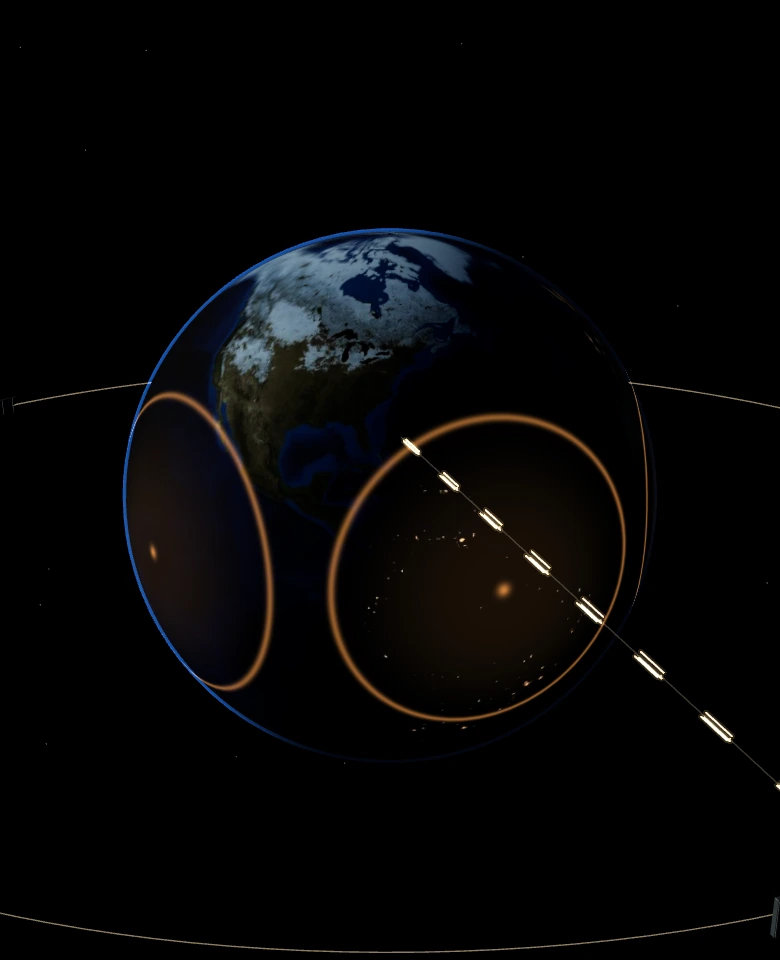
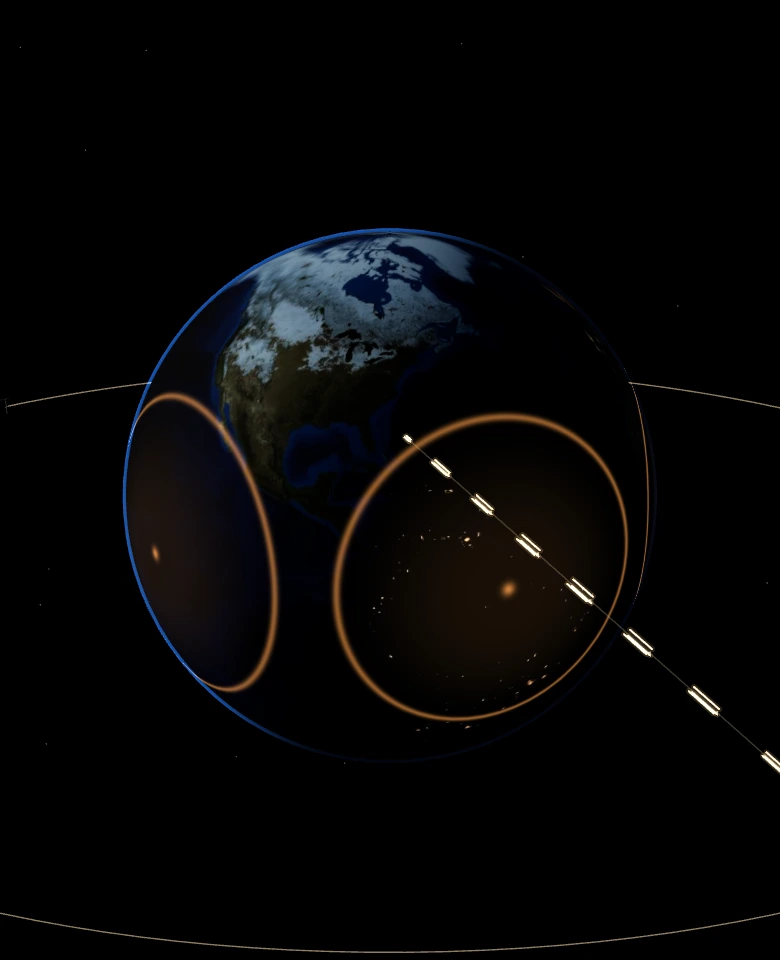
Plume over open ocean; recapture story stills; canvas keyboard help
- plume-illustration.js: turn the reused NASA Earth (y -1.8 instead of 0.8)
  so the generic plume rises over the Norwegian Sea instead of the Gulf of
  Alaska / Pacific Northwest coast. Framing and lighting unchanged.
- Recapture the browser stills (plume, ring) with render-story-stills.mjs
  against the current build and bump their ?v keys to ux2. The Blender
  hardware stills were re-rendered by the same run but restored to the
  committed bytes: their inputs (GLBs, Blender scripts) are unchanged, and
  the manifest records the committed hashes. story-freshness passes.
- Canvas aria-label names the keyboard shortcuts (1-6, L/D/H, arrows).

diff --git a/index.html b/index.html
@@ -47,7 +47,7 @@
   </header>
   <main id="main">
     <section class="hero" id="top" aria-labelledby="hero-title">
-      <div class="hero-img"><picture><source media="(max-width: 760px)" srcset="look/ring-phone.webp?v=astra1" width="780" height="960"><img src="look/ring.webp?v=astra1" width="1600" height="1000" alt="An illuminated Earth surrounded by a schematic orbital ring and enlarged representative satellites." fetchpriority="high" decoding="async"></picture><video id="ring-loop" hidden muted loop playsinline preload="none" aria-label="Schematic GEO day loop: the patches stay fixed to the rotating Earth"><source src="look/ring-loop.mp4" type="video/mp4"></video></div>
+      <div class="hero-img"><picture><source media="(max-width: 760px)" srcset="look/ring-phone.webp?v=ux2" width="780" height="960"><img src="look/ring.webp?v=ux2" width="1600" height="1000" alt="An illuminated Earth surrounded by a schematic orbital ring and enlarged representative satellites." fetchpriority="high" decoding="async"></picture><video id="ring-loop" hidden muted loop playsinline preload="none" aria-label="Schematic GEO day loop: the patches stay fixed to the rotating Earth"><source src="look/ring-loop.mp4" type="video/mp4"></video></div>
       <div class="hero-in">
         <p class="eyebrow">Light · Data · Heat <span> / Orbit to pixel</span></p>
         <h1 id="hero-title">The Guardian Ring</h1>
@@ -174,7 +174,7 @@
       <section class="level-study" id="photon" aria-labelledby="photon-title">
         <header class="study-heading"><p class="eyebrow">06 / The photon</p><h2 id="photon-title">Start with<br>molecular light.</h2><p class="section-lede">Hot gases emit infrared radiation in characteristic molecular bands. A civil combustion study supplies the band examples here.</p></header>
         <figure class="study-figure">
-          <picture><source media="(max-width: 700px)" srcset="look/plume-phone.webp?v=astra1" width="780" height="960"><img src="look/plume.webp?v=astra1" width="1600" height="1000" alt="A rising false-color plume above a curved atmospheric layer, with enlarged carbon dioxide and water-vapor diagrams in an inset." loading="lazy" decoding="async"></picture>
+          <picture><source media="(max-width: 700px)" srcset="look/plume-phone.webp?v=ux2" width="780" height="960"><img src="look/plume.webp?v=ux2" width="1600" height="1000" alt="A rising false-color plume above a curved atmospheric layer, with enlarged carbon dioxide and water-vapor diagrams in an inset." loading="lazy" decoding="async"></picture>
           <figcaption>Illustrative plume, as drawn. Shape, brightness, and colored light paths are artistic choices. <button type="button" class="chip assumed" data-src="story:schematic" aria-expanded="false" aria-label="Assumed: what backs the plume illustration">Assumed</button></figcaption>
         </figure>
         <div class="band-pair">

diff --git a/visualizer.html b/visualizer.html
@@ -49,7 +49,7 @@
     <div class="body">
       <div class="viewer" id="viewer">
         <div class="view" id="view">
-          <canvas id="gl" tabindex="0" aria-label="Schematic 3D architecture. Drag to orbit, scroll to zoom."></canvas><div class="pins" id="pins"></div>
+          <canvas id="gl" tabindex="0" aria-label="Schematic 3D architecture. Drag to orbit, scroll to zoom. With the view focused: 1 to 6 change level, L, D and H change layer, left and right arrows step through parts."></canvas><div class="pins" id="pins"></div>
           <div class="hud tl"><span class="ttl" id="hud-title">The ring</span><span class="sub" id="hud-sub">Earth and orbit families · schematic scale</span></div>
           <div class="hud bl"><p class="hint">Drag to orbit · right-drag to pan · scroll to zoom<br>Pointer over the view: 1–6 levels · L D H layers · ← → parts</p></div>
           <div class="hud tr"><div class="mode" role="group" aria-label="Layer">

diff --git a/src/scenes/plume-illustration.js b/src/scenes/plume-illustration.js
@@ -43,7 +43,9 @@ export function createPlumeIllustration({scene,asset,paths,hotspots,dataHotspots
   const ground=overlay(earth,
     'Earth context — historical NASA imagery, no event location');
   ground.removeFromParent();ground.position.set(0,-4,-4);ground.scale.setScalar(5);
-  ground.rotation.set(0,.8,0);
+  // Turned so the plume rises over open northern ocean (the Norwegian Sea), never
+  // a coastline or launch region; 0.8 had put it over the Gulf of Alaska coast.
+  ground.rotation.set(0,-1.8,0);
   // Daylight geography provides context; city-light emission is not appropriate
   // under this scene's illustrative daylight lighting.
   ground.material.emissiveIntensity=0;scene.add(ground);
